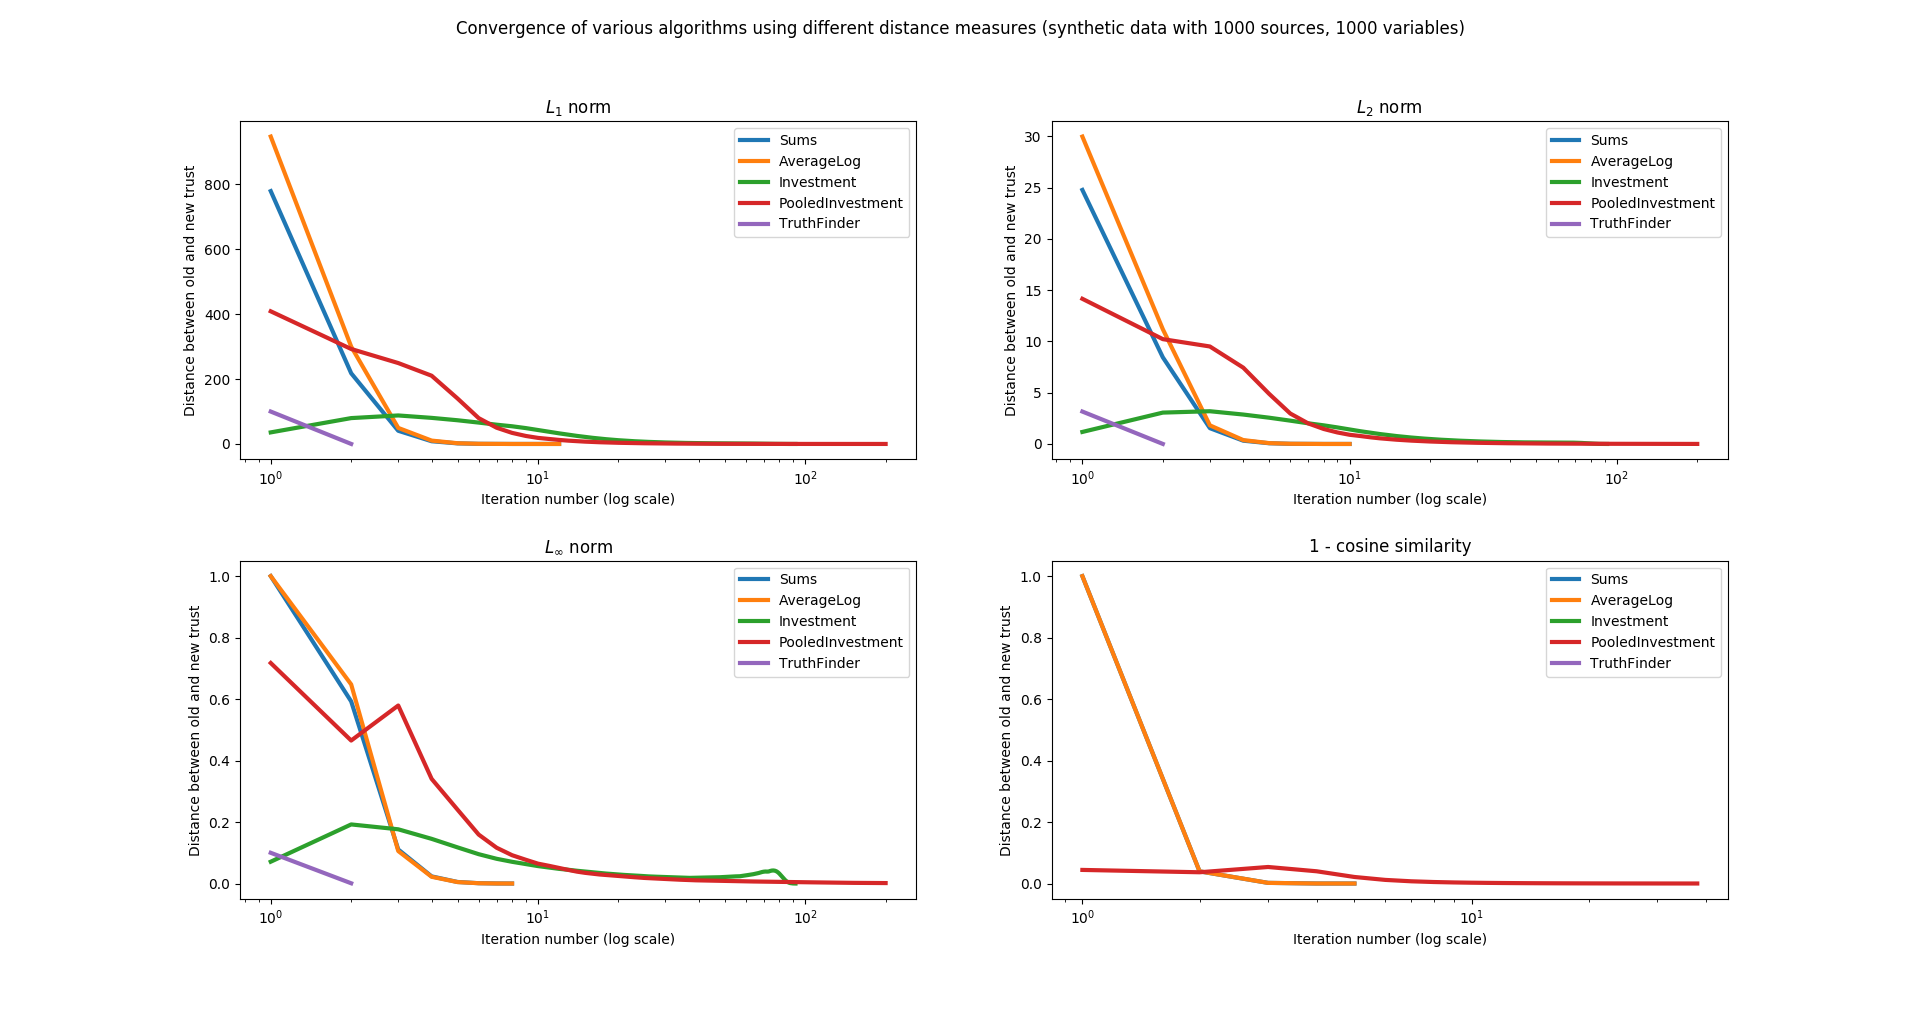
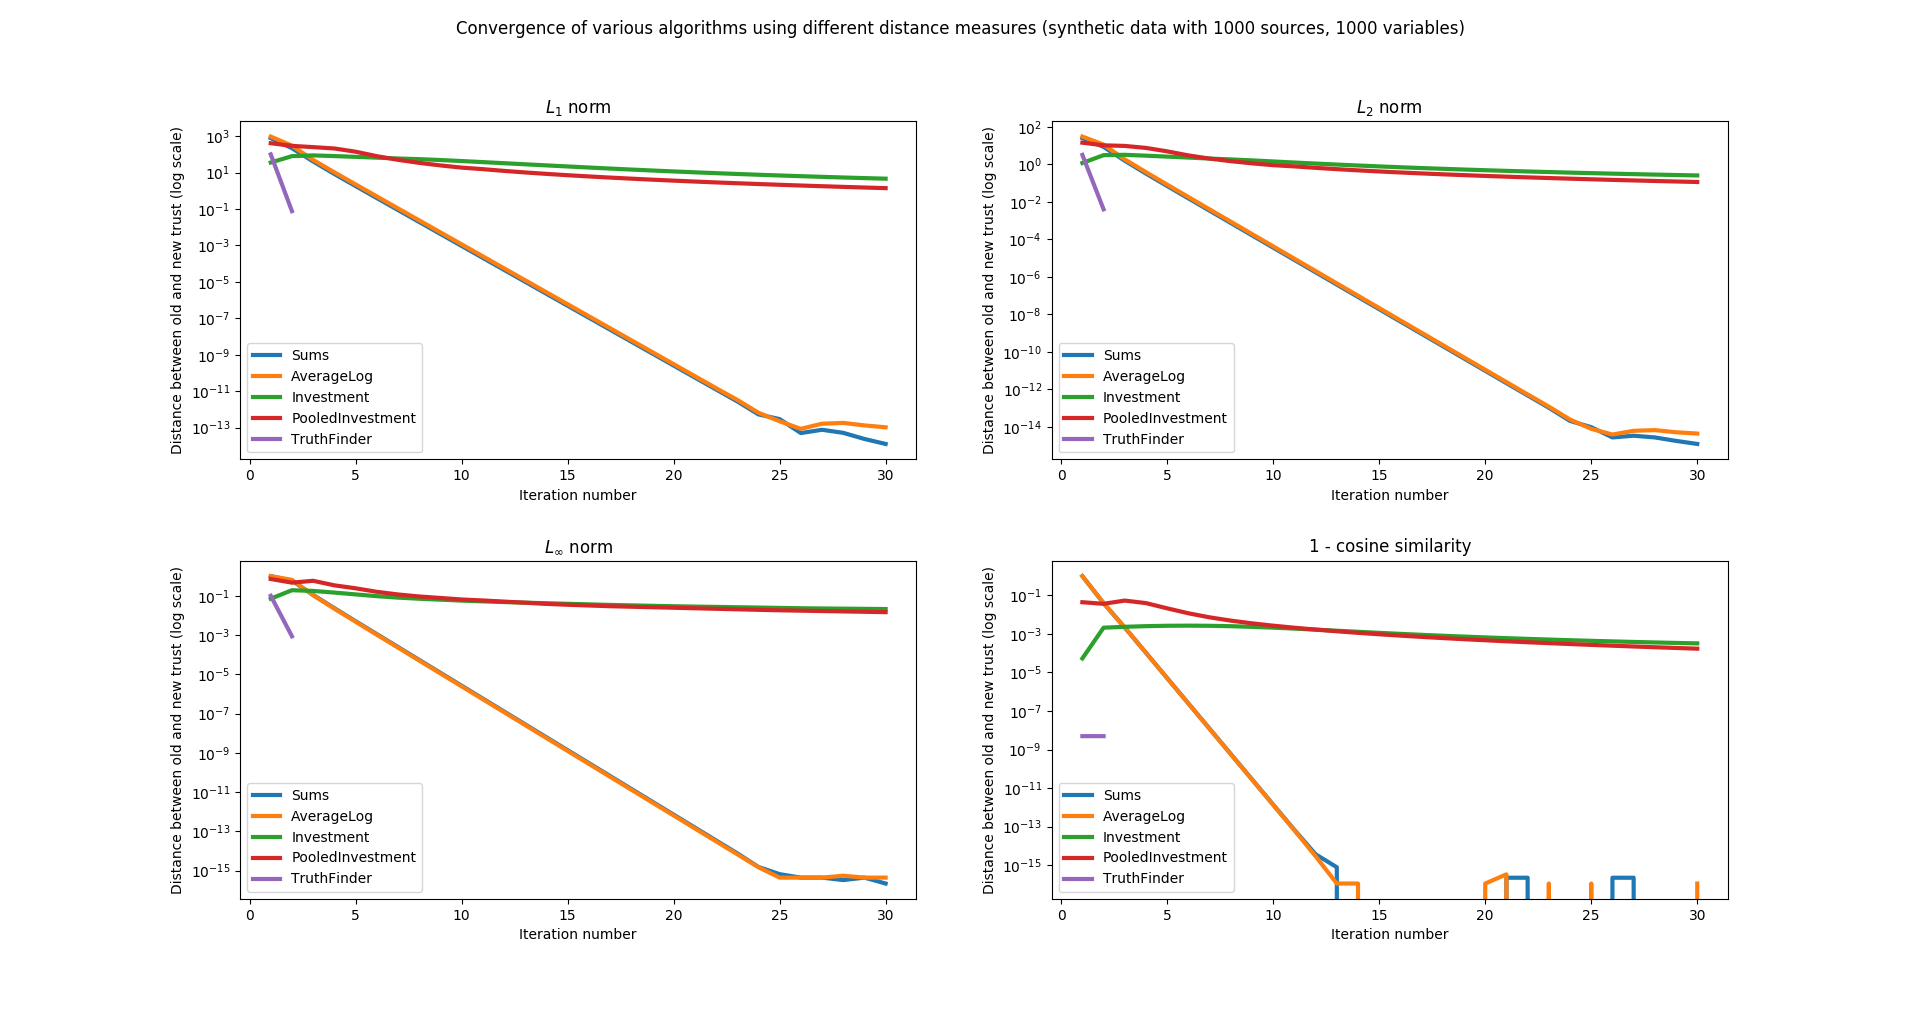
Update convergence tests to use log scale on vertical axis, and perform only up to 30 iterations

diff --git a/truthdiscovery/examples/convergence_test.py b/truthdiscovery/examples/convergence_test.py
@@ -54,7 +54,7 @@ def main():
     for measure, (row, col) in zip(DistanceMeasures, subplot_coords):
         distances = {}
 
-        iterator = ConvergenceIterator(measure, 0.0001, limit=200, debug=True)
+        iterator = ConvergenceIterator(measure, 0, limit=30, debug=True)
         for cls in ALGORITHMS:
             name = cls.__name__
             print("running {} using {} measure".format(name, measure))
@@ -86,12 +86,12 @@ def main():
 
         ax = axes[row, col]
         ax.set_title("{}".format(MEASURE_NAMES[measure]))
-        ax.set_xlabel("Iteration number (log scale)")
-        ax.set_ylabel("Distance between old and new trust")
+        ax.set_xlabel("Iteration number")
+        ax.set_ylabel("Distance between old and new trust (log scale)")
         for name, dists in distances.items():
             while len(dists) < max_its:
                 dists.append(None)
-            ax.semilogx(x, dists, label=name, linewidth=3)
+            ax.semilogy(x, dists, label=name, linewidth=3)
         ax.legend()
     plt.show()
 

diff --git a/notes/convergence_tests/experiment.md b/notes/convergence_tests/experiment.md
@@ -7,17 +7,16 @@ from a uniform distribution on [0, 1]).
 For iterative algorithms, the vector of source trust scores is updated at each
 iteration. In the experiment the distance between the old and new trust vectors
 was measured at each iteration -- this distance is plotted on the vertical axis
-against the iteration number on the horizontal axis. Each algorithm was run
-until either the distance became smaller than 0.0001, 200 iterations were
-performed, or the algorithm could no longer continue due to rounding errors
-(this only happened for *TruthFinder*). Each algorithm was run several times
-using different measures of distance: the $L_1$, $L_2$ and $L_{\infty}$ norms
-(Manhattan, Euclidean and maximum distances respectively), and 'cosine
+against the iteration number on the horizontal axis. Each algorithm was run for
+30 iterations, or until the algorithm could no longer continue due to rounding
+errors (this only happened for *TruthFinder*). Each algorithm was run several
+times using different measures of distance: the $L_1$, $L_2$ and $L_{\infty}$
+norms (Manhattan, Euclidean and maximum distances respectively), and 'cosine
 distance', which is the cosine similarity subtracted from 1.
 
-For most algorithms, the distance between old and new trust becomes very small
-in few iterations. For this reason the horizontal axis shows a log-scale, to
-illustrate more clearly the behaviour of the convergence (or otherwise).
+For most algorithms, the distance between old and new trust appears to decrease
+exponentially, so a logarithmic scale is used for the vertical axis in order to
+more clearly see the behaviour.
 
 TODO:
 - compare each algorithm
